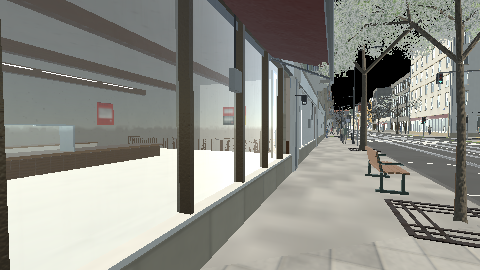
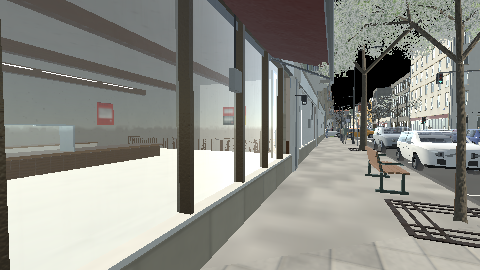
Street comparison with traffic: vehicles and drivers through the engine, 1,284/1,284 draw calls

Changed region(s): [[0.6562, 0.4444, 1.0, 0.6519]]

diff --git a/tests/pilots/StreetSceneComparison.cpp b/tests/pilots/StreetSceneComparison.cpp
@@ -219,7 +219,7 @@ int main(int argc, char** argv)
             settings.probeFaceSize = 32;
             settings.probeSpacing = 32.0f;
         }
-        settings.traffic = false;          // parked city: moving traffic is submitted per frame
+        settings.traffic = true;           // moving vehicles: dynamic items, drivers as skinned figures
         settings.pedestrians = true;       // skinned figures (ENG-032)
         if (seed != 0) {
             settings.seed = seed;

diff --git a/docs/pilots/street-simulator.md b/docs/pilots/street-simulator.md
@@ -110,17 +110,21 @@ traffic or pedestrians), and draws the first viewpoint twice into the same
    engine's frame.
 
 Result (software renderer, Debug, CNA baseline `5a44d2c5`), with Street's
-pedestrians on (traffic off):
+traffic and pedestrians on (since 2026-10-21; the whole program takes about
+3 minutes and 2.7 GB):
 
 | Measure | Street | Engine |
 | --- | --- | --- |
-| Scene | 1,361 static items, 93 instance groups (661 instances), 181 skinned figures | same objects |
-| Visible items | 652 | **652** (the same set) |
+| Scene | 1,361 static items, 201 instance groups (1,390 instances), moving vehicles, 193 skinned figures (pedestrians and drivers) | same objects |
+| Visible items (static and vehicles) | 1,110 | **1,110** (the same rules) |
 | Visible instances | 192 | **192** |
-| Visible figures | 117 | **117** |
-| Draw calls | 820 (51 instanced, 117 skinned) | **820** |
-| CPU frame time | 6.7–9.5 s | 6.2–10.5 s (equal within run-to-run noise) |
-| Image difference | — | mean **0.01 / 255** per channel; 53 of 129,600 pixels differ (largest 103 / 255) |
+| Visible figures | 123 | **123** |
+| Draw calls | 1,284 (51 instanced, 123 skinned) | **1,284** |
+| CPU frame time | 10.2–11.8 s | 10.7–11.4 s (equal within run-to-run noise) |
+| Image difference | — | mean **0.01 / 255** per channel; 68 of 129,600 pixels differ (largest 103 / 255) |
+
+Without traffic (pedestrians only, 2026-10-20) the same view gave 652 / 192 /
+117 visible, 820 / 820 draw calls and 53 differing pixels.
 
 The program fails if the visibility sets differ. The images
 (`docs/pilots/images/street-scene-street.png`, `…-engine.png`) are practically
@@ -130,11 +134,12 @@ on for the engine's transparent items (a throwaway binder wrapper) leaves 4
 differing pixels, so 49 of the 53 come from that difference. The remaining 4
 were not investigated.
 
-From this viewpoint the figures are far away and mostly hidden (486 pixels),
-so the program draws a second view: a close-up 3.5 m in front of a
-pedestrian (`docs/pilots/images/street-figure-*.png`). There 57 figures cover
-10,412 pixels, and **2** of those differ from Street's frame. The frame as a
-whole differs in 772 pixels (mean 0.39 / 255): the engine draws exactly
+From this viewpoint the figures are far away and mostly hidden (539 pixels),
+so the program draws a further view: a close-up 3.5 m in front of a
+pedestrian (`docs/pilots/images/street-figure-*.png`). With traffic, 42
+figures cover 4,112 pixels there and **none** of them differs from Street's
+frame (without traffic: 57 figures, 10,412 pixels, 2 differ). The frame as a
+whole differs in 781 pixels (mean 0.13 / 255): the engine draws exactly
 Street's visible set, but this camera's view matrix differs from Street's by
 1.7e-6 (its orientation goes through two implementations' yaw handling; for
 the first viewpoint the matrices are identical), and the differing pixels lie
@@ -178,9 +183,9 @@ engine then both render that pose:
 
 | Measure | Street | Engine |
 | --- | --- | --- |
-| Visible items / instances / figures | 621 / 157 / 72 | **621 / 157 / 72** |
-| Draw calls | 748 (55 instanced) | **748** |
-| Image difference | — | mean 0.20 / 255; 821 of 129,600 pixels (9 of the 335 figure pixels) |
+| Visible items / instances / figures | 954 / 157 / 78 | **954 / 157 / 78** |
+| Draw calls | 1,087 (55 instanced) | **1,087** |
+| Image difference | — | mean 0.21 / 255; 884 of 129,600 pixels (14 of the 528 figure pixels) |
 
 As in the close-up, the camera's orientation passes through both
 implementations' yaw handling and the remaining pixels sit on coplanar
@@ -195,18 +200,19 @@ buffers once) and sets it beside Street's own accounting:
 
 | Measure | Street | Engine estimate |
 | --- | --- | --- |
-| Meshes Street uploads itself | 79,966,804 bytes | 69,668,412 bytes (vertex 61,790,352, index 7,878,060) |
-| Everything the scene registers (incl. borrowed model parts, skinned figures) | — | 416.6 MiB: vertex 61.6 MiB (1,538 buffers), index 7.7 MiB, textures 347.2 MiB (355) |
+| Meshes Street uploads itself | 88,007,780 bytes | 76,677,228 bytes (vertex 67,983,312, index 8,693,916) |
+| Everything the scene registers (incl. borrowed model parts, vehicles, skinned figures) | — | 424.7 MiB: vertex 66.7 MiB (1,758 buffers), index 8.4 MiB, textures 349.5 MiB (379) |
 | Texture library | 367,877,828 bytes | — (Street counts every loaded texture at its top level only and generated ones with their mips; the engine counts the textures materials reference, every level) |
 
 The mesh difference is Street's: it sizes vertices with `sizeof` of CNA's
 vertex struct (56 bytes, it has a vtable) instead of the declared stride (48);
-exactly 8 bytes per vertex over 1,287,299 vertices (upstream-issues.md UP-008).
+exactly 8 bytes per vertex over 1,416,319 vertices (upstream-issues.md UP-008;
+1,287,299 vertices without traffic).
 
 ### With reflection probes (ENG-035 step 5)
 
 Street's Medium and High presets light each item from its nearest reflection
-probe. `cna_engine_street_scene_comparison <dir> 0 probes` bakes Street's
+probe. (Measured before traffic was switched on in the comparison.) `cna_engine_street_scene_comparison <dir> 0 probes` bakes Street's
 probes (32-pixel faces every 32 m, as Medium does; about 5 minutes in all, so
 the CTest run leaves it out) and gives the engine a
 `PbrMaterialBinder::EnvironmentSelector` that maps each item's

diff --git a/handoff.md b/handoff.md
@@ -48,9 +48,9 @@ also runs the Street scene comparison), 2 consumer probes pass.
 Both pilots' real scenes render through the engine's `ForwardRenderer`
 practically identically to the pilots' own renderers: Street's procedural
 city with the PBR binder carrying Street's lighting and its sky as a custom
-pass, pedestrians included as skinned render items (visible items,
-instances, figures and draw calls identical; mean image difference
-0.01/255) and car-simulator's `lipova` map with the strict stock binder
+pass, traffic and pedestrians included (vehicles as dynamic items, people
+as skinned render items; visible items, instances, figures and all 1,284
+draw calls identical; mean image difference 0.01/255) and car-simulator's `lipova` map with the strict stock binder
 (every visibility count and all draw calls identical by day and at night,
 additive lamp light included; 0.05/255 by day). See
 `docs/pilots/`.
@@ -76,7 +76,7 @@ Done (see `plan.md` for per-task results):
   instancing, skinned render items.
 - Enhanced integration: `EngineWorldScreen`, debug overlay, quality schema
   (ENG-036), `street_slice` example.
-- Release readiness: LICENSE, NOTICE, CHANGELOG, API snapshot of the 20
+- Release readiness: LICENSE, NOTICE, CHANGELOG, API snapshot of the 21
   pilot-validated headers, profile guides, `quick_start` game example,
   verification matrix, CI workflow with the EXT-003 upstream lane and canary
   (blocked by UP-007 until the CNA pin is pushed).

diff --git a/docs/verification.md b/docs/verification.md
@@ -4,6 +4,13 @@ Newest first. Each entry states the dependency revisions and worktree state,
 the configuration, the commands, and the result. Failures and skips are
 listed, never folded into a pass.
 
+## 2026-10-21 — Street with traffic
+
+Street comparison with traffic and pedestrians (`build-probe/`, pinned):
+first view 1,110 / 192 / 123 visible, 1,284 / 1,284 draw calls, 68 pixels
+differ; walk 954 / 157 / 78, 1,087 draws, 884 pixels; close-up 787 / 104 /
+42, 869 draws, 781 pixels, none on the 4,112 figure pixels. 176 s, 2.7 GB.
+
 ## 2026-10-21 — car-simulator at night, material fog
 
 Sanitizer tree `build-asan/` rebuilt with every change of 2026-10-20/21:
